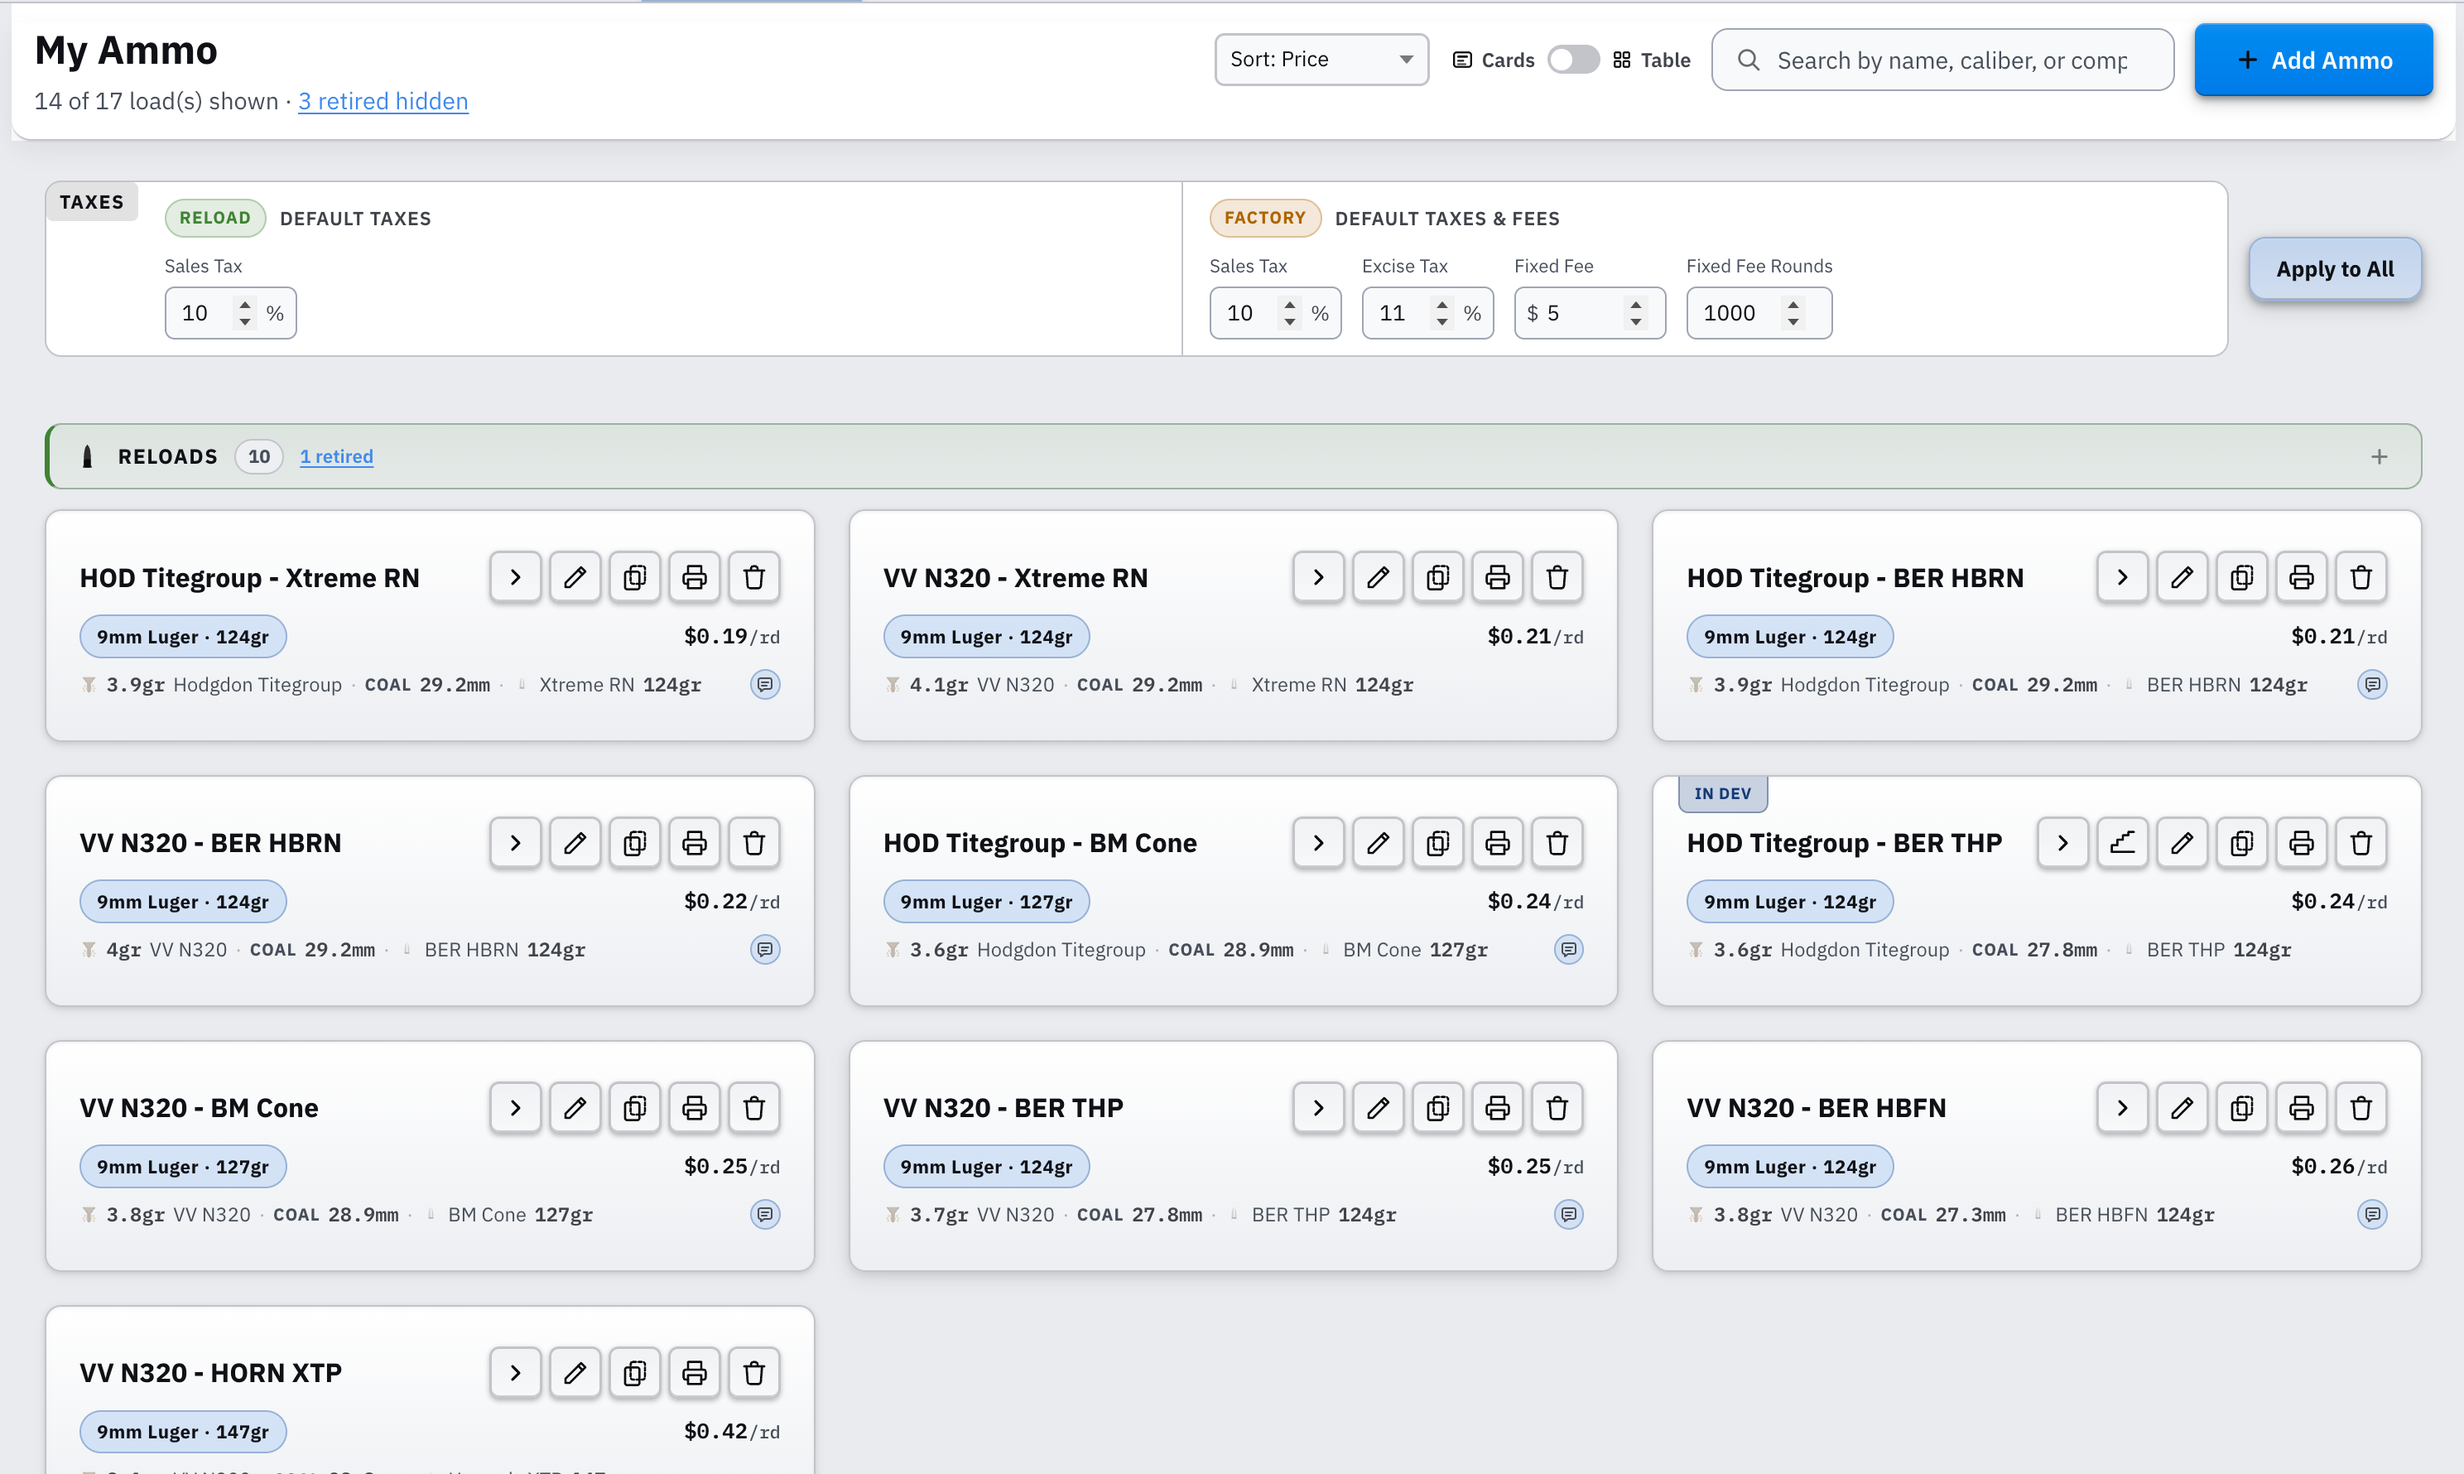
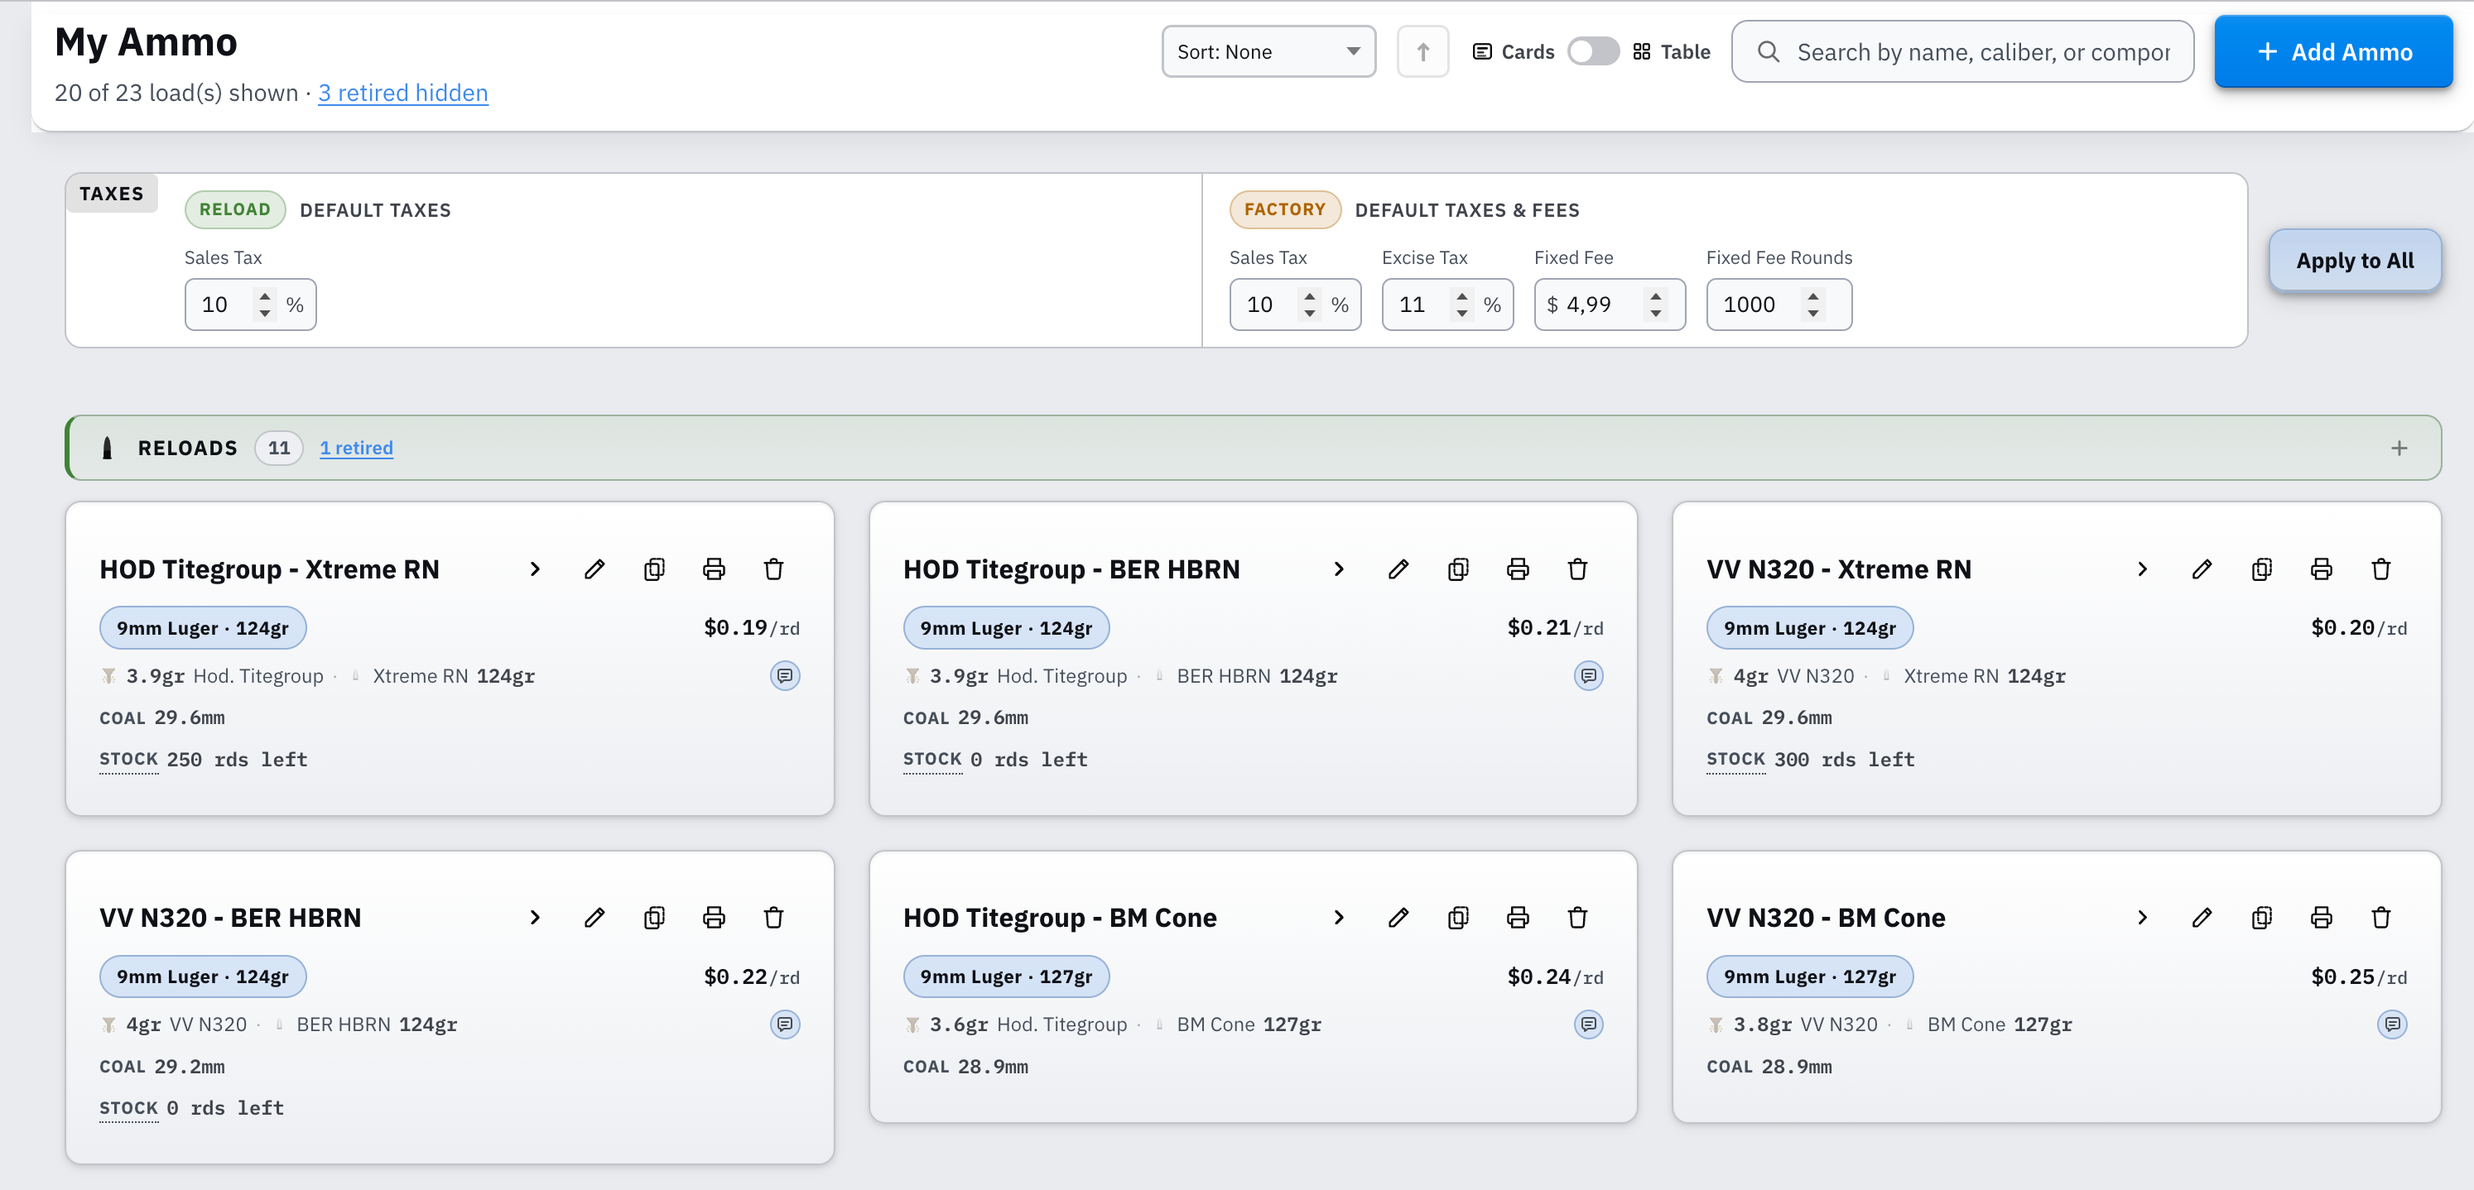
Added stock to my ammo view.

Changed region(s): [[0.0, 0.0, 1.0, 1.0], [0.9062, 0.153, 1.0, 0.2754]]

diff --git a/README.md b/README.md
@@ -1,4 +1,4 @@
-# Reloading Tracker 2.12.1: User Guide
+# Reloading Tracker 2.13.1: User Guide
 
 Reloading Tracker is your complete bench-to-range companion. It starts as a production log: define your loads, record every pressing session with a unique lot number, and print a label for every box on your shelf. And it grows with you from there.
 
@@ -7,7 +7,7 @@ Manage a shared component inventory, work up new loads with a structured charge 
 If you also care about the economics, the app can do that too. Compare the cost of your reloads against factory ammunition, track your progress toward break-even after equipment investment, and get a side-by-side cost breakdown across any combination of loads. Totally optional though -- plenty of reloaders just want the log and the data.
 
 
-> **DOWNLOAD:** A desktop version is available from the releases page: [**latest version**](https://github.com/fmalpartida/reloading-cost-calculator/releases/tag/v2.12.1). All previous version are available [here](https://github.com/fmalpartida/reloading-cost-calculator/releases).
+> **DOWNLOAD:** A desktop version is available from the releases page: [**latest version**](https://github.com/fmalpartida/reloading-cost-calculator/releases/tag/v2.13.1). All previous version are available [here](https://github.com/fmalpartida/reloading-cost-calculator/releases).
 
 
 Want to try it out first?
@@ -224,6 +224,9 @@ Click **Add Ammo** in the top-right corner of the My Ammo tab, or click the **+*
 **Brass / Cases**
 - Brass description, price, quantity, and how many times each case will be reloaded before replacement. The cost per round is divided by this reuse count.
 
+**Stock**
+- Rounds in hand for a reload come from the Journal: every lot you press for this load adds its rounds, and rounds logged against those lots in the Range Log come off. Archived lots no longer count. There is no count to type in; the only field is **Alert Below (rounds)**, an optional threshold that shows a **Low** badge on the card and in the table once rounds in hand fall to or below it.
+
 **Sales Tax**
 - The sales tax percentage applied to your total component cost.
 
@@ -276,7 +279,7 @@ You can also switch between **Card** and **Table** views using the view toggle n
 
 **Stock display**
 
-Factory ammo entries with stock tracking enabled (see [2.2](#22-adding-a-factory-ammo-entry)) show a **Stock** line on the card, or a **Stock** column in table view - both display rounds and boxes remaining together, e.g. *250 rds (5 boxes) left*. A **Low** badge appears once remaining stock falls to or below your configured **Alert Below** threshold. Hover (or focus) the Stock label to see the full breakdown in a tooltip: lifetime total purchased, rounds logged in the Range Log, and the resulting remainder. Entries with no boxes added yet show no Stock line at all.
+Ammo with stock to show gets a **Stock** line on the card, or a **Stock** column in table view. Factory ammo with stock tracking enabled (see [2.2](#22-adding-a-factory-ammo-entry)) shows rounds and boxes remaining together, e.g. *250 rds (5 boxes) left*. Reloads show the rounds left in their active Journal lots (see [2.1](#21-adding-a-reload-entry)), e.g. *240 rds left*, so the number always matches the Journal's **Remaining** column. A **Low** badge appears once remaining stock falls to or below your configured **Alert Below** threshold. Hover (or focus) the Stock label to see how the number is worked out. Factory ammo with no boxes added and reloads with no Journal lots show no Stock line at all.
 
 ![Screenshot: Expanded ammo card showing component breakdown](images/ammo-viewer.png)
 
@@ -755,7 +758,7 @@ Entries with component lots recorded show a tag icon in the Notes column. Hover 
 The **Remaining** column shows how many rounds from each lot have not yet been fired. It is calculated automatically from your Range Log: every time you log rounds against a lot in a range session, the remaining count decreases. When all rounds in a lot have been accounted for in the Range Log, the lot is marked **Depleted**. This live link between the journal and the range means you always know exactly how much of each lot is left on the shelf without maintaining a separate inventory.
 
 **Archiving and restoring entries**
-Click the **📦 Archive** button to move a lot out of the active list without deleting it. Archived entries remain part of your history and are still counted in the Journal statistics panel. To see archived entries, click the **"N archived"** link that appears in the journal header when any entries are archived. To restore an entry to the active list, expand the archived view and click the **Restore** button on the relevant row.
+Click the **📦 Archive** button to move a lot out of the active list without deleting it. Archived entries remain part of your history and are still counted in the Journal statistics panel, but their unfired rounds no longer count toward the load's stock in My Ammo. To see archived entries, click the **"N archived"** link that appears in the journal header when any entries are archived. To restore an entry to the active list, expand the archived view and click the **Restore** button on the relevant row.
 
 Use the **Search** box at the top of the page to filter entries by lot number, date, load name, caliber, brass name, notes, or component lot. Searching a primer lot code, for example, lists every batch pressed with that lot.
 
@@ -1497,6 +1500,7 @@ In **Settings**, the **Auto-backup on import** toggle controls whether the appli
 - **Range Log notes for load development.** Use the per-lot notes field in the Range Log to record group sizes, point of impact shifts, felt recoil, or function issues. Over time this builds a development log you can cross-reference when adjusting a recipe.
 - **Star your reference loads.** Once you find a load that functions and groups well, star that range session. The starred filter gives you a quick shortlist when you are deciding what to press next. Starring a session also stars the linked journal lots automatically, so both records are flagged together.
 - **Remaining Rounds keeps your shelf count accurate.** Log rounds against journal lots in the Range Log using **From Journal** mode and the Remaining column updates automatically. Lots that reach zero are marked Depleted and hidden from the From Journal dropdown so you cannot accidentally log against an empty lot.
+- **Reload stock lives in the Journal.** A reload's stock in My Ammo is the sum of its Journal lots' Remaining counts, so press and log through the Journal if you want it tracked. Rounds logged in **Reload** mode in the Range Log (not tied to a Journal lot) don't come off the stock. If you have ammo pressed before you started using the Journal, log it as a Journal entry so it is counted.
 - **Factory ammo stock is a lifetime total, not a current count.** Each time you buy more, enter the number of boxes in **Add Boxes** and click **Add** - it accumulates. Don't try to type your current on-hand count directly; the app already subtracts every round you've logged in the Range Log automatically, including sessions recorded before you started tracking stock for that ammo.
 - **Correcting a factory stock mistake.** Entered the wrong number of boxes? Enter a negative number in **Add Boxes** and click **Add** again to bring the lifetime total back down. There's no separate "edit" for the total - amendments always go through the same Add control.
 - **Archive completed lots to keep the journal tidy.** Once a lot is fully fired and you no longer need it in the active list, archive it. The lot stays in your history and still contributes to statistics; it just does not appear in the main journal table. Restore it at any time if you need to reference or reprint the label.
